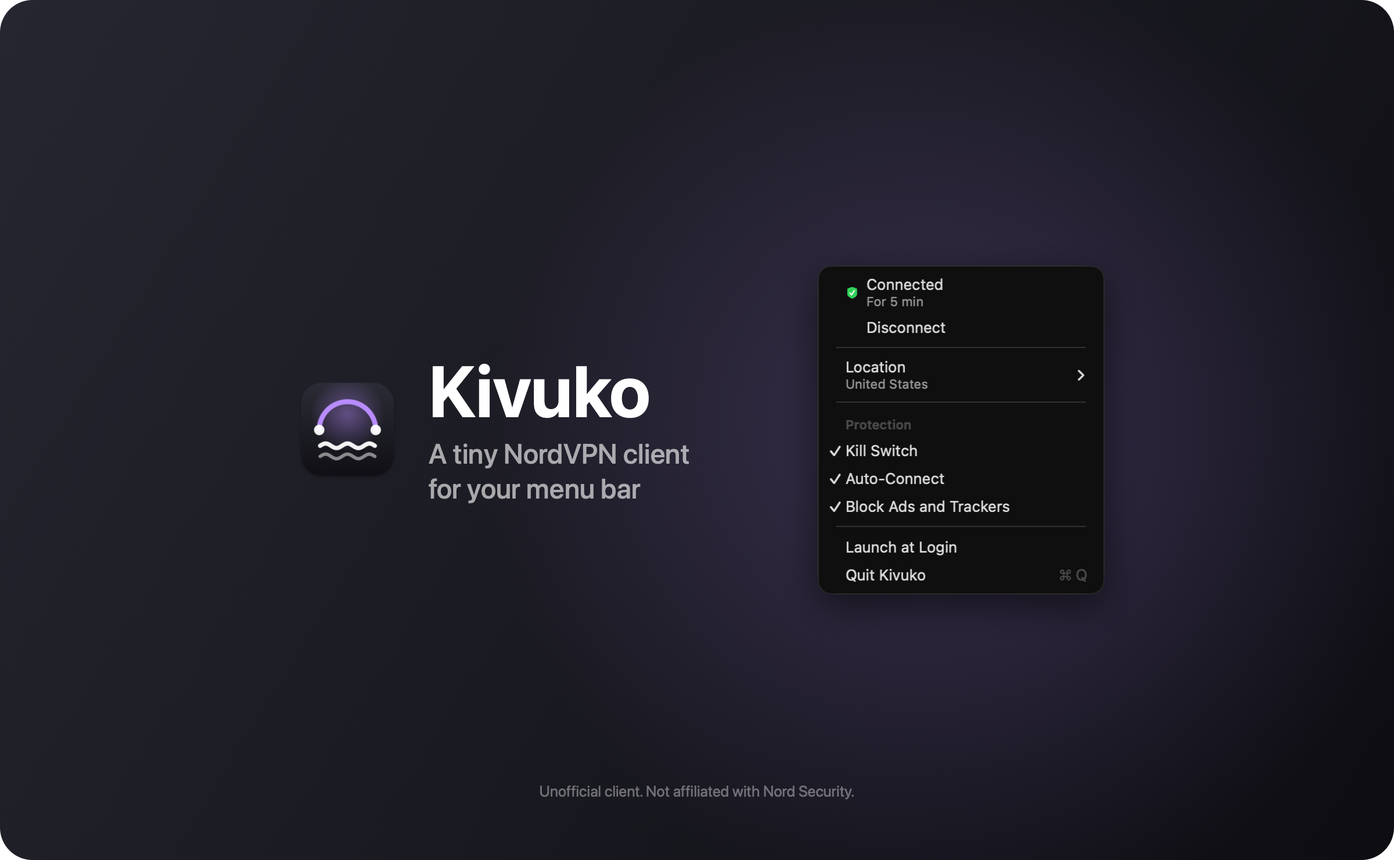
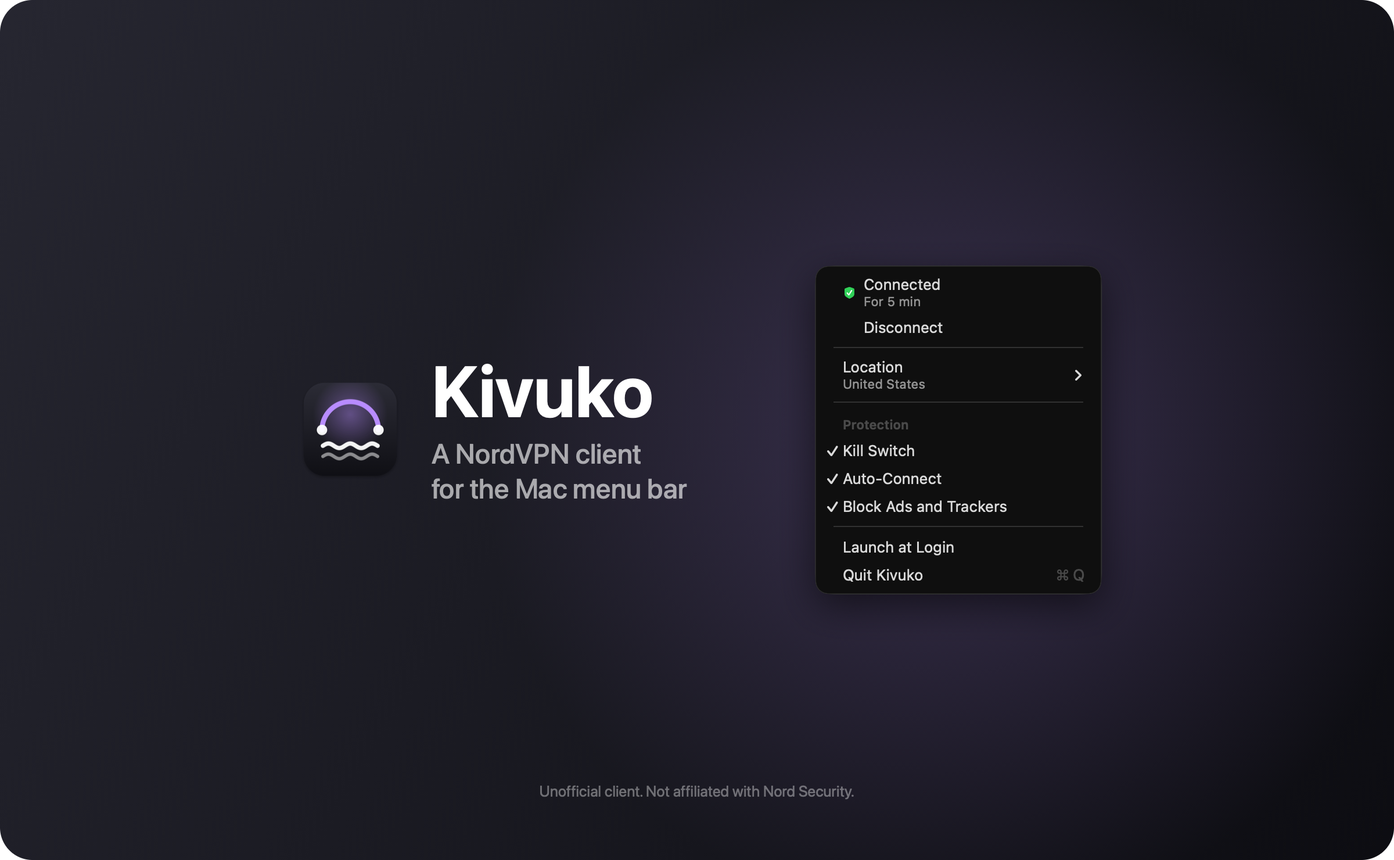
Reword the README and docs, and the tagline on the images

diff --git a/scripts/make-showcase.swift b/scripts/make-showcase.swift
@@ -322,7 +322,7 @@ do {
     let s: CGFloat = 1
     let real = image("docs/images/menu.png").map(pixels) ?? menu
     let m = CGSize(width: real.width * s, height: real.height * s)
-    let lines = ["A tiny NordVPN client", "for your menu bar"]
+    let lines = ["A NordVPN client", "for the Mac menu bar"]
     let icon: CGFloat = 200, gap: CGFloat = 220
     let top = (H - m.height) / 2
     // Measure on a throwaway canvas, since the glow's position depends on the result.
@@ -348,7 +348,7 @@ do {
     let top = (640 - m.height) / 2
     let c = Canvas(1280, 640, corner: 0, accent: violet,
                    glows: [Glow(x: Double(cx), top: Double(top + m.height * 0.55), radius: 520, alpha: 0.26)])
-    c.nameBlock(appName, ["A tiny NordVPN client", "for your menu bar"], x: 96, top: 214, icon: 128, copy: 40)
+    c.nameBlock(appName, ["A NordVPN client", "for the Mac menu bar"], x: 96, top: 214, icon: 128, copy: 40)
     c.label(disclaimer, size: 18, weight: .regular, alpha: 0.42).draw(at: CGPoint(x: 96, y: 72))
     c.shot("menu.png", expect: menu, cx: cx, top: top, scale: s)
     c.write("social-preview.png")

diff --git a/docs/architecture.md b/docs/architecture.md
@@ -1,6 +1,6 @@
 # How Kivuko works
 
-Kivuko is two Rust programs in one app bundle: a menu-bar app, and a NetworkExtension packet-tunnel provider that runs WireGuard. Both use [objc2](https://github.com/madsmtm/objc2) for the Apple frameworks. There is no Swift or Objective-C in the shipped app; the Swift in `signing/` is a stub that only exists to get provisioning profiles from Xcode.
+Kivuko.app is a menu bar app, and its bundle contains a NetworkExtension packet-tunnel provider that runs WireGuard. The app and the tunnel are written in Rust and use [objc2](https://github.com/madsmtm/objc2) for the Apple frameworks. The shipped app contains no Swift or Objective-C. The Swift in `signing/` is a stub for getting provisioning profiles from Xcode.
 
 ```text
 Kivuko.app                              app/       menu bar, token prompt, VPN configuration
@@ -32,11 +32,11 @@ They talk in two ways:
 2. The tunnel fetches your NordLynx private key from Nord with the token and saves it in its sandbox container.
 3. It asks Nord for 5 recommended WireGuard servers, filtered by country if you chose one, and saves the list.
 4. For up to 3 of them, it hands macOS the tunnel settings (addresses, default routes, DNS, MTU), finds the utun file descriptor macOS created, runs GotaTun on it with that server as the only peer, and waits up to 8 seconds for a handshake. The first server that answers wins.
-5. When macOS reports the tunnel as connected, the app turns On-Demand on, so macOS restarts the tunnel on its own after sleep or a network change.
+5. When macOS reports the tunnel as connected, the app turns On-Demand on, so macOS restarts the tunnel after sleep or a network change.
 
 On-Demand starts carry no token, so the tunnel uses the key it saved. If Nord's API can't be reached, it falls back to the server list it saved last time.
 
-While connected, a watchdog checks the handshake every 15 seconds. With a 25-second keepalive, WireGuard renews the handshake about every 2 minutes. After 3 minutes without one, the tunnel forces a new handshake and macOS shows "Reconnecting". After 6 minutes, it cancels itself with an error and On-Demand restarts it on a freshly chosen server. On wake from sleep it forces a handshake straight away.
+While connected, a watchdog checks the handshake every 15 seconds. With a 25-second keepalive, WireGuard renews the handshake about every 2 minutes. After 3 minutes without a handshake, the tunnel forces a new handshake and macOS shows "Reconnecting". After 6 minutes, it cancels itself with an error and On-Demand restarts it on a freshly chosen server. On wake from sleep it forces a handshake straight away.
 
 ## Decisions
 
@@ -45,13 +45,13 @@ While connected, a watchdog checks the handshake every 15 seconds. With a 25-sec
 | WireGuard engine | [GotaTun](https://github.com/mullvad/gotatun) 0.10 (`default-features = false`, features `device` and `ring`) | Mullvad's Rust fork of BoringTun |
 | Tunnel device | Kivuko's own `IpSend`/`IpRecv` adapter on the utun file descriptor (`provider/src/utun.rs`), using tokio's `AsyncFd` and adding or stripping macOS's 4-byte protocol header | The tun crate can't read the MTU of a borrowed descriptor, so its `TunDevice` fails |
 | Finding the utun | Scan the open descriptors for the socket whose control ID is `com.apple.net.utun_control` | The same method as [wireguard-apple](https://github.com/WireGuard/wireguard-apple) |
-| App extension, not system extension | A packet-tunnel app extension inside the app | A development-signed app extension needs no notarization or Developer ID profile; a system extension does |
+| App extension, not system extension | A packet-tunnel app extension inside the app | A development-signed app extension needs no notarization or Developer ID profile. A system extension does |
 | Kill switch | `includeAllNetworks = true`, `excludeLocalNetworks = true` | macOS enforces it, and the local network keeps working |
-| Auto-Connect | On-Demand with one `NEOnDemandRuleConnect` for any interface, switched on only after a successful connection | The first start must carry the token |
+| Auto-Connect | On-Demand with an `NEOnDemandRuleConnect` rule for any interface, switched on only after a successful connection | The first start must carry the token |
 | Setup errors | A rejected token or a missing key turns On-Demand off and shows the problem in the menu | Retrying can't fix these, and with the kill switch on a retry loop would keep blocking the internet |
 | Disconnect | Turns On-Demand off until the next Connect | Otherwise On-Demand reconnects at once |
 | Quit | Turns the VPN off, then quits. Auto-Connect connects again when Kivuko next starts | Quitting the VPN app should leave the VPN off |
-| DNS | Threat Protection Lite, 103.86.96.108 and 103.86.99.108 (default), or Nord's plain resolvers, 103.86.96.100 and 103.86.99.100; `matchDomains = [""]` | The empty match domain sends every DNS query to these servers |
+| DNS | Threat Protection Lite, 103.86.96.108 and 103.86.99.108 (default), or Nord's standard resolvers, 103.86.96.100 and 103.86.99.100. Both use `matchDomains = [""]` | The empty match domain sends every DNS query to these servers |
 | Addresses | IPv4 10.5.0.2/32 and an IPv6 ULA /128, with default routes for both | NordLynx gives every client 10.5.0.2 and no IPv6, so IPv6 goes into the tunnel, where Nord drops it, instead of leaking around it |
 | MTU | 1420 | WireGuard's default |
 | Server choice | In the tunnel, at every start | On-Demand starts happen without the app |
@@ -59,20 +59,20 @@ While connected, a watchdog checks the handshake every 15 seconds. With a 25-sec
 
 ## Security model
 
-- The access token is a login-keychain item (service `Kivuko`, account `NordVPN token`) that the app creates, so macOS never asks whether the app may read it. The tunnel never reads the keychain: macOS points VPN processes at the system keychain for data-protection items, so a shared keychain group doesn't work. Instead the app passes the token in the start options when you click Connect.
-- The tunnel fetches the WireGuard key itself because its own traffic is allowed past the kill switch while the tunnel is starting, and the app's isn't.
-- The key and the server list live in the tunnel's sandbox container (`Library/Application Support/state.json`), written with mode 0600 through a temporary file and a rename.
+- The access token is a login-keychain item (service `Kivuko`, account `NordVPN token`) that the app creates, so macOS never asks whether the app may read it. The tunnel never reads the keychain. macOS points VPN processes at the system keychain for data-protection items, so a shared keychain group doesn't work. The app passes the token in the start options when you click Connect.
+- The tunnel fetches the WireGuard key because its traffic is allowed past the kill switch while the tunnel is starting, and the app's traffic isn't.
+- The key and the server list are stored in the tunnel's sandbox container (`Library/Application Support/state.json`), written with mode 0600 through a temporary file and a rename.
 - Nothing secret goes in the VPN configuration. macOS stores it in `/Library/Preferences/com.apple.networkextension.plist`, which every user can read, so it holds only the country and DNS choice.
 - The logs record events, such as which server answered and why a start failed, never the token or the key.
 - Both bundles are signed with the hardened runtime. Both have the `com.apple.developer.networking.networkextension` entitlement with `packet-tunnel-provider`, plus `application-identifier` and `team-identifier`. The tunnel also has the App Sandbox with network client and server. The app isn't sandboxed.
 
 ## The NordVPN API
 
-Nord doesn't document the API a WireGuard client needs, so `nord/` parses leniently and ignores every field it doesn't use.
+Nord doesn't document the API a WireGuard client needs, so `nord/` parses leniently and ignores fields it doesn't use.
 
 | Call | Use |
 |---|---|
-| `GET https://api.nordvpn.com/v1/servers/recommendations?filters[servers_technologies][identifier]=wireguard_udp&limit=5`, plus `filters[country_id]=<id>` for a country | Servers to try. Each server's WireGuard public key is in `technologies[wireguard_udp].metadata[name=public_key]`; the endpoint is the server's `station` address, port 51820 |
+| `GET https://api.nordvpn.com/v1/servers/recommendations?filters[servers_technologies][identifier]=wireguard_udp&limit=5`, plus `filters[country_id]=<id>` for a country | Servers to try. Each server's WireGuard public key is in `technologies[wireguard_udp].metadata[name=public_key]`. The endpoint is the server's `station` address, port 51820 |
 | `GET https://api.nordvpn.com/v1/servers/countries` | The Location menu, cached for a week |
 | `GET https://api.nordvpn.com/v1/users/services/credentials` with Basic auth `token:<access token>` | The account's NordLynx private key, field `nordlynx_private_key` |
 
@@ -82,12 +82,12 @@ Nord doesn't document the API a WireGuard client needs, so `nord/` parses lenien
 
 `scripts/bundle.sh` does the whole build:
 
-1. It works out the team (`KIVUKO_TEAM`, or the team of the one Apple Development certificate in the login keychain) and the bundle IDs (`<KIVUKO_BUNDLE_PREFIX>.kivuko` and `<KIVUKO_BUNDLE_PREFIX>.kivuko.tunnel`). It passes the IDs to cargo as `KIVUKO_APP_ID` and `KIVUKO_EXT_ID`, which `shared/src/lib.rs` reads with `option_env!`, and to XcodeGen, which fills `${...}` in `signing/project.yml` from the environment.
+1. It works out the team (`KIVUKO_TEAM`, or the team of the Apple Development certificates in the login keychain, if they share a team) and the bundle IDs (`<KIVUKO_BUNDLE_PREFIX>.kivuko` and `<KIVUKO_BUNDLE_PREFIX>.kivuko.tunnel`). It passes the IDs to cargo as `KIVUKO_APP_ID` and `KIVUKO_EXT_ID`, which `shared/src/lib.rs` reads with `option_env!`, and to XcodeGen, which fills `${...}` in `signing/project.yml` from the environment.
 2. It looks for unexpired development profiles for both bundle IDs in `~/Library/Developer/Xcode/UserData/Provisioning Profiles`. If either is missing, it generates the stub project in `signing/` and builds it with `-allowProvisioningUpdates -allowProvisioningDeviceRegistration`, so Xcode's automatic signing registers the Mac and the IDs and downloads the profiles. It then unregisters and deletes the stub app.
 3. It signs with the Apple Development certificate the app's profile was issued for.
 4. It builds both binaries in release mode for `aarch64-apple-darwin`, fills `resources/*.plist` and `resources/*.entitlements` with the names and IDs, embeds the profiles, and signs the extension, then the app.
 
-Only one copy of the app may stay registered with macOS. With two copies of the tunnel extension (the same bundle ID), opening either makes macOS remove one extension and stop every running instance of it, which drops the VPN. That is why the script unregisters the stub app and the `dist/` copy, and clears the `com.apple.macl` attribute that a copied bundle can carry: with it, macOS re-registers the app on every launch, which restarts the tunnel.
+macOS must not have two copies of the app registered. Their tunnel extensions share a bundle ID, and opening either copy makes macOS remove one of the two extensions and stop every running instance of it, which drops the VPN. That is why the script unregisters the stub app and the `dist/` copy. It also clears the `com.apple.macl` attribute that a copied bundle can carry, because with that attribute macOS re-registers the app on every launch, which restarts the tunnel.
 
 ## Verified
 
@@ -97,9 +97,9 @@ On a MacBook Pro with macOS 26, on 24 October 2026:
 |---|---|
 | Connect | Fetched the key, picked a nearby server from Nord's recommendations and completed the handshake in 0.2 s |
 | Exit IP | In the chosen Nord server's range |
-| DNS | Only 103.86.96.108 and 103.86.99.108, over the utun; googleadservices, pagead2 and securepubads were blocked |
+| DNS | Only 103.86.96.108 and 103.86.99.108, over the utun. The googleadservices, pagead2 and securepubads domains were blocked |
 | IPv6 | No route out, so no leak |
 | Kill switch | A request forced out of the Wi-Fi interface (en0) still left through the tunnel |
-| Throughput | 212 Mbit/s download; the tunnel used about 26% of one core while it ran |
+| Throughput | 212 Mbit/s download, with the tunnel using about 26% of a CPU core |
 | Memory | App 26 MB, tunnel 4.2 MB |
-| Idle CPU | App 0%; tunnel about 0.4% with background traffic |
+| Idle CPU | App 0%, tunnel about 0.4% with background traffic |

diff --git a/docs/setup.md b/docs/setup.md
@@ -1,11 +1,11 @@
 # Building and running Kivuko
 
-Kivuko is built from source and signed on your own Mac with your own Apple developer account. There is no notarized download: the VPN part is a NetworkExtension app extension, and macOS only loads one that is signed with a provisioning profile from a paid developer account.
+Kivuko is built from source on your Mac and signed with your Apple developer account. There is no notarized download. The VPN part is a NetworkExtension app extension, and macOS loads it only when it is signed with a provisioning profile from a paid developer account.
 
 ## What you need
 
 - An Apple silicon Mac with macOS 14 or later. Kivuko is tested on macOS 26.
-- A paid [Apple Developer Program](https://developer.apple.com/programs/) membership, 99 USD a year. A free Apple Account isn't enough: Apple's [table of supported macOS capabilities](https://developer.apple.com/help/account/reference/supported-capabilities-macos) lists Network Extensions for Apple Developer Program members and Developer ID only, not for free accounts.
+- A paid [Apple Developer Program](https://developer.apple.com/programs/) membership, 99 USD a year. A free Apple Account isn't enough. Apple's [table of supported macOS capabilities](https://developer.apple.com/help/account/reference/supported-capabilities-macos) lists Network Extensions only for Apple Developer Program members and Developer ID.
 - Xcode, signed in with that account (Xcode › Settings › Accounts). The Command Line Tools alone aren't enough, because Xcode's automatic signing creates the certificate and profiles.
 - [XcodeGen](https://github.com/yonaskolb/XcodeGen): `brew install xcodegen`.
 - Rust 1.95 or later, from [rustup](https://rustup.rs). The WireGuard library, GotaTun, needs 1.95.
@@ -13,16 +13,16 @@ Kivuko is built from source and signed on your own Mac with your own Apple devel
 
 ## 1. Choose your team and bundle IDs
 
-Bundle IDs are unique across all Apple developer accounts, so you need a prefix that's yours, such as `com.yourname`. The app becomes `com.yourname.kivuko` and the tunnel `com.yourname.kivuko.tunnel`. The default prefix, `top.piedol`, is the project's own and only signs for its owner.
+Bundle IDs are unique across all Apple developer accounts. Pick a prefix that's yours, such as `com.yourname`. The app becomes `com.yourname.kivuko` and the tunnel `com.yourname.kivuko.tunnel`. The default prefix, `top.piedol`, is the project's and signs only for its owner.
 
 `scripts/bundle.sh` reads two settings:
 
 | Variable | Default |
 |---|---|
 | `KIVUKO_BUNDLE_PREFIX` | `top.piedol` |
-| `KIVUKO_TEAM` | The team of the one Apple Development certificate in your login keychain |
+| `KIVUKO_TEAM` | The team of the Apple Development certificate in your login keychain |
 
-Your team ID is 10 characters, like `ABCDE12345`, and is listed under Membership details at [developer.apple.com/account](https://developer.apple.com/account). The script finds it in the certificate's subject (its Organizational Unit). The code in parentheses after your name in the certificate's name, as in "Apple Development: Your Name (XXXXXXXXXX)", is not the team ID. If you've never built a Mac app with this account, you don't have the certificate yet, so set `KIVUKO_TEAM` and Xcode creates the certificate on the first build. If you have certificates for more than one team, the script stops and asks you to set `KIVUKO_TEAM`.
+Your team ID is 10 characters, like `ABCDE12345`, and is listed under Membership details at [developer.apple.com/account](https://developer.apple.com/account). The script finds it in the certificate's subject (its Organizational Unit). The code in parentheses after your name in the certificate's name, as in "Apple Development: Your Name (XXXXXXXXXX)", is not the team ID. If you've never built a Mac app with this account, you don't have the certificate yet, so set `KIVUKO_TEAM` and Xcode creates the certificate on the first build. If you have certificates for different teams, the script stops and asks you to set `KIVUKO_TEAM`.
 
 To set them once, copy the example file and edit it. `signing/local.env` is ignored by git, and values already set in the environment win over it.
 
@@ -57,9 +57,9 @@ The first run asks Xcode for development signing by building a stub project in `
 
 The script then builds the app and the tunnel with cargo, assembles `dist/Kivuko.app` with the tunnel at `Contents/PlugIns/KivukoTunnel.appex`, embeds the profiles and signs both with your certificate. With `--install` it replaces `/Applications/Kivuko.app`, removes the copy in `dist/` and opens the app. Without `--install` it stops at `dist/Kivuko.app`.
 
-Keep one copy of Kivuko on the Mac. Two copies of the tunnel extension share a bundle ID, and when you open one, macOS removes the other's extension and stops the running tunnel, which drops the VPN. So don't open `dist/Kivuko.app` while another copy is installed.
+Don't keep a second copy of Kivuko on your Mac. Two copies of the tunnel extension share a bundle ID, and when you open either copy, macOS removes the other's extension and stops the running tunnel, which drops the VPN. So don't open `dist/Kivuko.app` while another copy is installed.
 
-The build isn't notarized and doesn't need to be: it's built on this Mac, so macOS never quarantines it. The profiles cover only the Macs registered in your account, so the app won't run on anyone else's.
+The build isn't notarized. It doesn't need to be, because it's built on this Mac and macOS never quarantines it. The profiles cover only the Macs registered in your account, so the app won't run on anyone else's.
 
 ## 3. Get a NordVPN access token
 
@@ -79,7 +79,7 @@ The tunnel fetches your WireGuard key from Nord, picks a server and connects. On
 
 ## Every year
 
-Development profiles and Apple Development certificates expire after a year. When the profiles expire, macOS stops loading the app and its tunnel. Run `scripts/bundle.sh --install` again before then: the script sees the expired profiles, Xcode renews them (and the certificate, if it has expired), and the script reinstalls the app. Renewal needs an active membership.
+Development profiles and Apple Development certificates expire after a year. When the profiles expire, macOS stops loading the app and its tunnel. Run `scripts/bundle.sh --install` again when that happens. The script sees the expired profiles, Xcode renews them (and the certificate, if it has expired), and the script reinstalls the app. Renewal needs an active membership.
 
 To see when the installed profile expires:
 
@@ -89,7 +89,7 @@ security cms -D -i /Applications/Kivuko.app/Contents/embedded.provisionprofile |
 
 ## Logs
 
-The app and the tunnel both log to the unified log under the app's bundle ID. The build script prints the command for your prefix when it finishes; with the default prefix it is:
+The app and the tunnel both log to the unified log under the app's bundle ID. The build script prints the command for your prefix when it finishes. With the default prefix it is:
 
 ```bash
 log stream --predicate 'subsystem == "top.piedol.kivuko"' --level info
@@ -103,7 +103,7 @@ Use `log show` with the same predicate and `--last 1h --info` for earlier messag
 |---|---|
 | NordVPN access token | Login keychain, service `Kivuko`, account `NordVPN token` |
 | WireGuard private key and the last good server list | `~/Library/Containers/<prefix>.kivuko.tunnel/Data/Library/Application Support/state.json`, the tunnel's sandbox container, readable only by you (mode 0600) |
-| Kill Switch, Auto-Connect, DNS and location choices | `~/Library/Application Support/Kivuko/settings.json`, written the first time you change one |
+| Kill Switch, Auto-Connect, DNS and location choices | `~/Library/Application Support/Kivuko/settings.json`, written the first time you change a setting |
 | Nord's country list | `~/Library/Caches/Kivuko/countries.json`, refreshed weekly |
 | The VPN configuration | macOS's own store (System Settings › VPN). It holds the country and DNS choice and nothing secret, because every user on the Mac can read it |
 
@@ -112,7 +112,7 @@ Use `log show` with the same predicate and `--last 1h --info` for earlier messag
 1. In Kivuko's menu, turn off Launch at Login, then choose Quit Kivuko. Quitting turns the VPN off and stops it reconnecting.
 2. In System Settings › VPN, click the info button next to Kivuko and remove the configuration.
 3. Move `/Applications/Kivuko.app` to the Trash.
-4. Delete the token: in Keychain Access, search the login keychain for "Kivuko" and delete the item, or run `security delete-generic-password -s Kivuko -a "NordVPN token"`.
+4. To delete the token, search the login keychain in Keychain Access for "Kivuko" and delete the item, or run `security delete-generic-password -s Kivuko -a "NordVPN token"`.
 5. Move these folders to the Trash: `~/Library/Application Support/Kivuko`, `~/Library/Caches/Kivuko` and `~/Library/Containers/<prefix>.kivuko.tunnel`.
 
 Quit before you delete the app. If Auto-Connect is still on, macOS keeps trying to start a tunnel that is no longer there, and with the Kill Switch on it blocks traffic while it tries, until you remove the configuration.
@@ -126,4 +126,4 @@ cargo test                          # unit tests
 cargo test -p nord -- --ignored     # live checks against Nord's API
 ```
 
-A plain `cargo build` or `cargo test` uses `com.example.kivuko` placeholders for the bundle IDs. Only `scripts/bundle.sh` passes your own.
+Running `cargo build` or `cargo test` directly uses `com.example.kivuko` placeholders for the bundle IDs. Only `scripts/bundle.sh` passes your own.

diff --git a/README.md b/README.md
@@ -5,7 +5,7 @@
 <h1 align="center">Kivuko</h1>
 
 <p align="center">
-  A small NordVPN client for the Mac menu bar, built on WireGuard.
+  A NordVPN client for the Mac menu bar, built on WireGuard.
 </p>
 
 <p align="center">
@@ -17,11 +17,11 @@
   <img src="docs/images/showcase.png" width="880" alt="Kivuko's menu while connected, with Location, Kill Switch, Auto-Connect and Block Ads and Trackers">
 </p>
 
-Kivuko connects your Mac to NordVPN over WireGuard (NordLynx) from one menu in the menu bar. Its kill switch is enforced by macOS itself, it reconnects after sleep and network changes, and it can block ads and trackers through NordVPN's DNS. The menu bar app uses about 23 MB of memory and the tunnel about 8 MB.
+Kivuko connects your Mac to NordVPN over WireGuard (NordLynx) from the menu bar. Its kill switch is enforced by macOS. Kivuko reconnects after sleep and network changes, and it can block ads and trackers through NordVPN's DNS. The menu bar app uses about 23 MB of memory and the tunnel about 8 MB.
 
-Kivuko is written in Rust. Its tunnel runs [GotaTun](https://github.com/mullvad/gotatun), Mullvad's Rust implementation of WireGuard, inside a macOS packet-tunnel extension. macOS starts and restarts that extension on its own, for example after sleep, without needing the menu bar app.
+Kivuko is written in Rust. Its tunnel runs [GotaTun](https://github.com/mullvad/gotatun), Mullvad's Rust implementation of WireGuard, inside a macOS packet-tunnel extension. macOS starts and restarts that extension, for example after sleep.
 
-<p align="center"><sub><em>Kivuko</em> (kee-VOO-koh) is Swahili for a crossing, or the ferry that carries you over.</sub></p>
+<p align="center"><sub><em>Kivuko</em> (kee-VOO-koh) is Swahili for "crossing" or "ferry".</sub></p>
 
 > [!NOTE]
 > Kivuko is an independent project. It is not made, endorsed or supported by Nord Security. You need your own NordVPN subscription.
@@ -39,24 +39,24 @@ Kivuko is written in Rust. Its tunnel runs [GotaTun](https://github.com/mullvad/
 
 ## Features
 
-- Connect and Disconnect sit at the top of the menu. Quitting Kivuko also turns the VPN off.
+- Connect and Disconnect are at the top of the menu. Quitting Kivuko turns the VPN off.
 - **Location** lists every country NordVPN serves, with your recent choices first. **Fastest Server** uses NordVPN's recommendation for where you are.
 - With **Kill Switch** on, macOS blocks any traffic that would leave outside the tunnel while the VPN is on or reconnecting. Your local network keeps working.
 - **Auto-Connect** reconnects on any network, after sleep and when Kivuko starts, until you click Disconnect.
-- **Block Ads and Trackers** uses NordVPN's Threat Protection Lite DNS. With it off, Kivuko uses NordVPN's plain DNS.
-- If a server doesn't answer within 8 seconds, Kivuko tries the next one, up to three. If no WireGuard handshake arrives for 3 minutes, it forces one, and after 6 minutes macOS restarts the tunnel on a new server (with Auto-Connect on).
-- IPv6 traffic is routed into the tunnel too, where NordVPN drops it, so it can't leak around the VPN.
+- **Block Ads and Trackers** uses NordVPN's Threat Protection Lite DNS. With it off, Kivuko uses NordVPN's standard DNS.
+- If a server doesn't answer within 8 seconds, Kivuko tries the next server, up to three. If no WireGuard handshake arrives for 3 minutes, it forces a new handshake, and after 6 minutes macOS restarts the tunnel on a new server (with Auto-Connect on).
+- IPv6 traffic goes into the tunnel, where NordVPN drops it, so it can't leak around the VPN.
 
 ## Requirements
 
 - A Mac with Apple silicon and macOS 14 or later (so far tested only on macOS 26)
 - A NordVPN subscription
-- A paid [Apple Developer Program](https://developer.apple.com/programs/) membership. macOS only loads VPN extensions signed through a paid account, so there's no ready-made download; you build and sign Kivuko yourself.
+- A paid [Apple Developer Program](https://developer.apple.com/programs/) membership. macOS loads VPN extensions only when they're signed through a paid account, so there's no ready-made download. You build and sign Kivuko yourself.
 - Xcode signed in with that account, [XcodeGen](https://github.com/yonaskolb/XcodeGen) and Rust 1.95 or later
 
 ## Install
 
-The full guide is [docs/setup.md](docs/setup.md). In short:
+The full guide is [docs/setup.md](docs/setup.md).
 
 1. Clone the repository and choose a bundle ID prefix of your own, such as `com.yourname`:
 
@@ -68,7 +68,7 @@ The full guide is [docs/setup.md](docs/setup.md). In short:
    cd kivuko && cp signing/local.env.example signing/local.env
    ```
 
-   Set `KIVUKO_BUNDLE_PREFIX` in `signing/local.env`, and `KIVUKO_TEAM` if you belong to more than one developer team. `scripts/bundle.sh --check` shows what will be signed.
+   Set `KIVUKO_BUNDLE_PREFIX` in `signing/local.env`, and `KIVUKO_TEAM` if your Apple ID is in several developer teams. `scripts/bundle.sh --check` shows what will be signed.
 
 2. Build, sign and install. On the first run, Xcode registers your Mac and the two bundle IDs and downloads development profiles:
 
@@ -79,7 +79,7 @@ The full guide is [docs/setup.md](docs/setup.md). In short:
 3. Get a NordVPN access token from [Nord Account](https://my.nordaccount.com/) › NordVPN › Advanced settings › Access token.
 4. Click the shield in the menu bar and choose **Set Up and Connect**. Paste the token, click **Save and Connect**, then click **Allow** when macOS asks to add a VPN configuration.
 
-Development profiles last a year, so run `scripts/bundle.sh --install` again before they expire. Keep only one copy of Kivuko on your Mac: when two copies of the tunnel extension are registered, opening one makes macOS stop the other's tunnel, which drops the VPN.
+Development profiles last a year. When they expire, macOS stops loading Kivuko, and running `scripts/bundle.sh --install` again renews them. Don't keep a second copy of Kivuko on your Mac. When two copies of the tunnel extension are registered, opening either copy of the app makes macOS stop the other's tunnel, which drops the VPN.
 
 ### Uninstall
 
@@ -103,9 +103,9 @@ Kivuko.app                              app/       menu bar app: menu, token pro
 
 - Your NordVPN access token is stored in your login keychain. When you click Connect, the app hands it to the tunnel, which uses it to fetch your WireGuard key from NordVPN.
 - The tunnel keeps the WireGuard key in its own sandbox container, readable only by your user (mode 0600).
-- macOS's VPN configuration can be read by every user on the Mac, so Kivuko keeps nothing secret there: only your country and DNS choice.
+- Any user on the Mac can read macOS's VPN configuration, so Kivuko stores only your country and DNS choice there.
 - The logs record events, never the token or the key.
-- Kivuko talks only to NordVPN's API and the VPN server you're connected to. There's no analytics or telemetry.
+- Kivuko talks only to NordVPN's API and the VPN server you're connected to, and sends no analytics.
 
 [docs/setup.md](docs/setup.md#what-kivuko-stores) lists every file Kivuko writes.
 
@@ -116,7 +116,7 @@ Measured on a MacBook Pro with macOS 26:
 | | Memory | CPU |
 |---|---|---|
 | Menu bar app | 23 MB | 0% when idle |
-| Tunnel | 8 MB | Under 1% with background traffic; about a quarter of one core while downloading at 212 Mbit/s |
+| Tunnel | 8 MB | Under 1% with background traffic; about 26% of a core while downloading at 212 Mbit/s |
 
 ## Development
 
@@ -126,7 +126,7 @@ Measured on a MacBook Pro with macOS 26:
 | `provider/` | The tunnel: server choice, network settings, GotaTun on the utun interface, the watchdog |
 | `nord/` | The NordVPN API client: server recommendations, countries and the NordLynx key |
 | `shared/` | Bundle IDs, settings and the messages between the app and the tunnel |
-| `signing/` | A stub Xcode project that exists only to get development signing |
+| `signing/` | A stub Xcode project used to get development signing |
 | `scripts/bundle.sh` | Build, sign and install |
 
 ### Contributing
